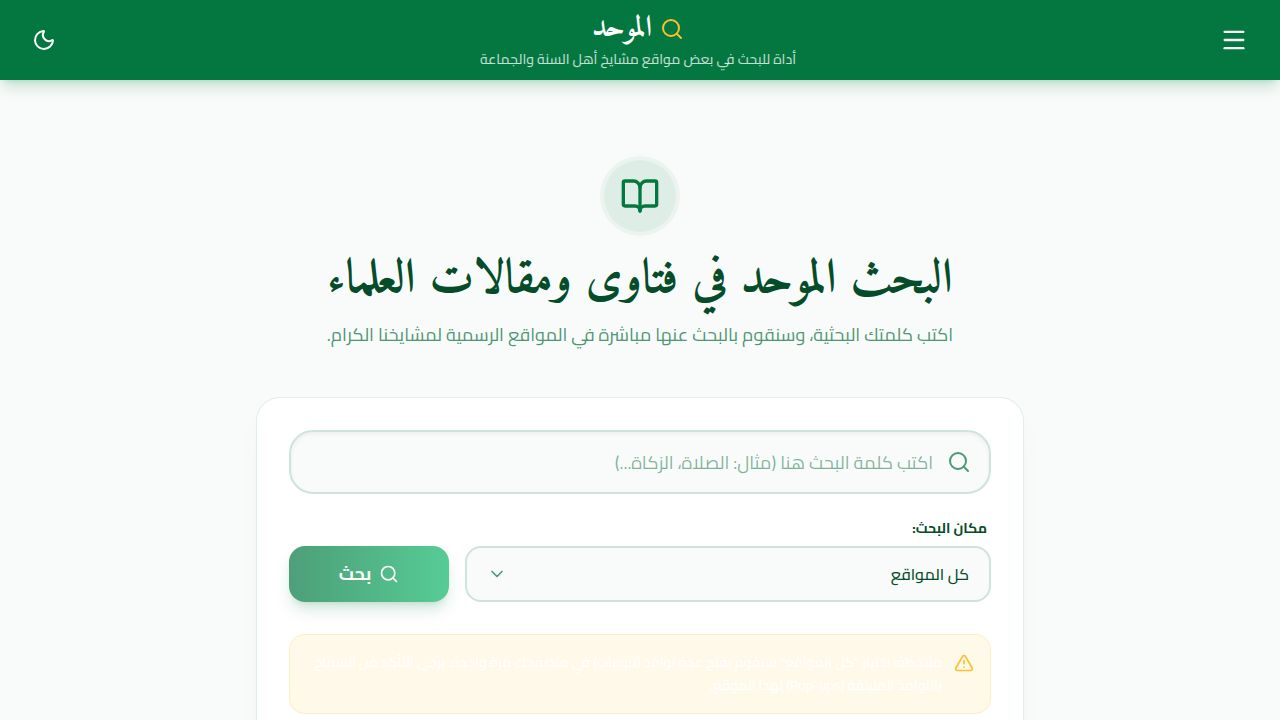
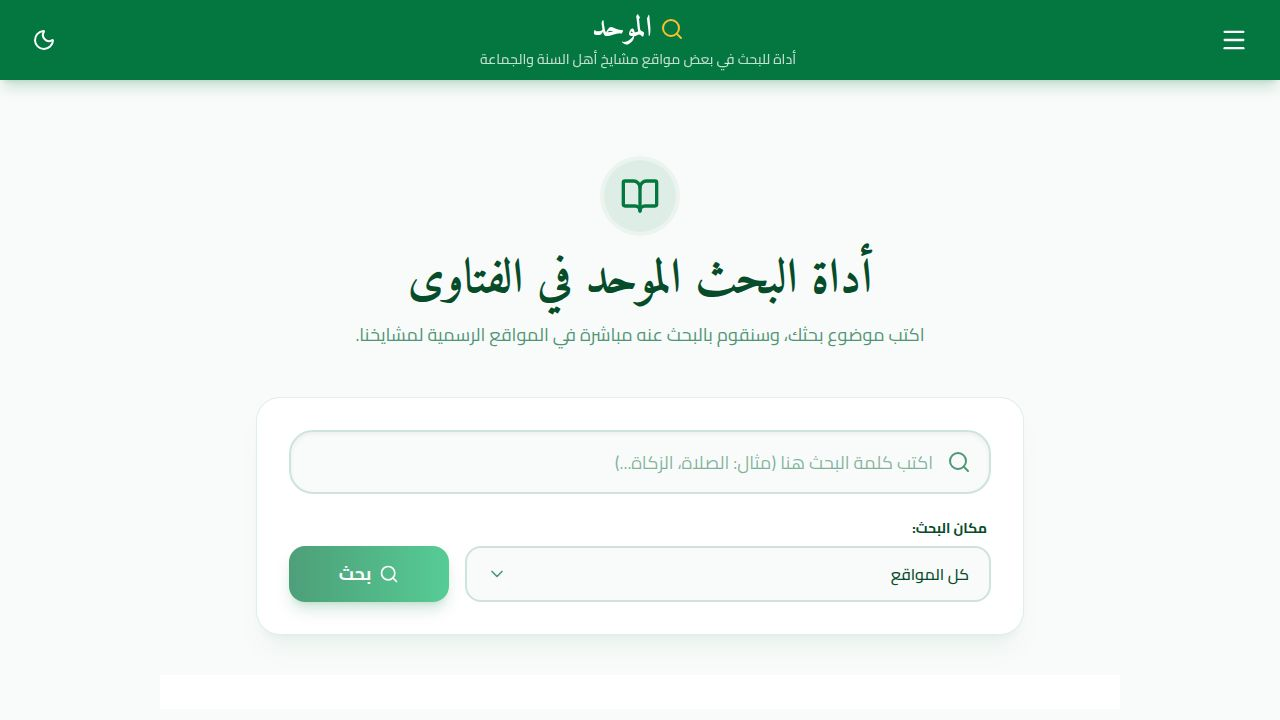
Implement Google search functionality using explicit rendering
Update index.html to configure Google CSE in explicit mode, modify Home.tsx to explicitly render searchbox and results elements using the Google CSE API after React mounts, and adjust index.css for the hidden searchbox element.

Replit-Commit-Author: Agent
Replit-Commit-Session-Id: 765bad33-1471-431f-a7c4-18b303a3d063
Replit-Commit-Checkpoint-Type: full_checkpoint
Replit-Commit-Event-Id: f0e6da24-7117-44e7-8c3e-510ffa481763
Replit-Commit-Screenshot-Url: https://storage.googleapis.com/screenshot-production-us-central1/f8a4007b-8852-4f8e-998f-2a66a300f633/765bad33-1471-431f-a7c4-18b303a3d063/X2VBrAP
Replit-Helium-Checkpoint-Created: true

diff --git a/artifacts/almowahid/src/pages/Home.tsx b/artifacts/almowahid/src/pages/Home.tsx
@@ -6,12 +6,15 @@ import { cn } from "@/lib/utils";
 
 declare global {
   interface Window {
+    __gcse?: object;
+    __cseReady?: boolean;
+    __cseOnReady?: (() => void) | null;
     google?: {
       search?: {
         cse?: {
           element?: {
-            getElement: (gname: string) => { execute: (query: string) => void } | null | undefined;
-            getAllElements: () => Record<string, { execute: (query: string) => void }>;
+            render: (config: { div: string; tag: string; gname?: string }) => void;
+            getElement: (gname: string) => { execute: (q: string) => void } | null | undefined;
           };
         };
       };
@@ -27,45 +30,50 @@ export default function Home() {
   const [isDropdownOpen, setIsDropdownOpen] = useState(false);
   const [isSearching, setIsSearching] = useState(false);
   const [hasSearched, setHasSearched] = useState(false);
-
   const dropdownRef = useRef<HTMLDivElement>(null);
+  const cseInitialised = useRef(false);
+
   const selectedSite = SITES.find((s) => s.id === selectedSiteId) || SITES[0];
 
+  /* ── Click-outside for dropdown ── */
   useEffect(() => {
-    function handleClickOutside(e: MouseEvent) {
-      if (dropdownRef.current && !dropdownRef.current.contains(e.target as Node)) {
+    function handler(e: MouseEvent) {
+      if (dropdownRef.current && !dropdownRef.current.contains(e.target as Node))
         setIsDropdownOpen(false);
-      }
     }
-    document.addEventListener("mousedown", handleClickOutside);
-    return () => document.removeEventListener("mousedown", handleClickOutside);
+    document.addEventListener("mousedown", handler);
+    return () => document.removeEventListener("mousedown", handler);
   }, []);
 
-  const executeSearch = (finalQuery: string, attempts = 0) => {
-    if (attempts > 120) { setIsSearching(false); return; }
+  /* ── Explicitly render Google CSE elements after React mounts ── */
+  useEffect(() => {
+    const renderCse = () => {
+      if (cseInitialised.current) return;
+      const cse = window.google?.search?.cse?.element;
+      if (!cse) return;
 
+      try {
+        cse.render({ div: "cse-searchbox-hidden", tag: "searchbox-only", gname: GNAME });
+        cse.render({ div: "cse-results",          tag: "searchresults-only", gname: GNAME });
+        cseInitialised.current = true;
+      } catch (_) { /* already rendered or not ready */ }
+    };
+
+    if (window.__cseReady) {
+      renderCse();
+    } else {
+      window.__cseOnReady = renderCse;
+    }
+  }, []);
+
+  /* ── Execute search via the searchbox element ── */
+  const runSearch = (finalQuery: string, attempts = 0) => {
+    if (attempts > 80) { setIsSearching(false); return; }
     try {
-      const cseEl = window.google?.search?.cse?.element;
-      if (cseEl) {
-        // Try by explicit gname first
-        const el = cseEl.getElement(GNAME);
-        if (el) {
-          el.execute(finalQuery);
-          setIsSearching(false);
-          return;
-        }
-        // Fallback: use the first available element
-        const all = cseEl.getAllElements?.();
-        const keys = all ? Object.keys(all) : [];
-        if (keys.length > 0) {
-          all[keys[0]].execute(finalQuery);
-          setIsSearching(false);
-          return;
-        }
-      }
-    } catch (_) { /* CSE not ready */ }
-
-    setTimeout(() => executeSearch(finalQuery, attempts + 1), 150);
+      const el = window.google?.search?.cse?.element?.getElement(GNAME);
+      if (el) { el.execute(finalQuery); setIsSearching(false); return; }
+    } catch (_) { /* not ready */ }
+    setTimeout(() => runSearch(finalQuery, attempts + 1), 200);
   };
 
   const handleSearch = (e: React.FormEvent) => {
@@ -84,23 +92,17 @@ export default function Home() {
         finalQuery = `site:${domain} ${query.trim()}`;
       }
     }
-
-    executeSearch(finalQuery);
+    runSearch(finalQuery);
   };
 
   return (
     <div className="flex-1 w-full max-w-5xl mx-auto px-4 sm:px-6 lg:px-8 py-12 md:py-20 flex flex-col items-center">
 
-      {/* ── Hidden Google searchbox — positioned off-screen, NOT display:none ── */}
       {/*
-        gcse-searchbox-only + gcse-searchresults-only sharing data-gname="almowahid"
-        is the officially documented Google CSE split-widget pattern.
-        The hidden searchbox must be rendered (not display:none) so Google CSE can
-        fully initialise it; we move it off-screen via CSS (#hidden-gcse-searchbox).
+        Hidden searchbox — rendered off-screen (not display:none) so Google CSE
+        can fully initialise it. Linked to results via GNAME.
       */}
-      <div id="hidden-gcse-searchbox">
-        <div className="gcse-searchbox-only" data-gname={GNAME} />
-      </div>
+      <div id="cse-searchbox-hidden" aria-hidden="true" />
 
       {/* ── Hero ── */}
       <motion.div
@@ -146,6 +148,7 @@ export default function Home() {
           </div>
 
           <div className="flex flex-col sm:flex-row gap-4">
+
             {/* Site dropdown */}
             <div className="relative flex-1" ref={dropdownRef}>
               <label className="block text-sm font-bold text-foreground mb-2 ms-1">
@@ -210,7 +213,7 @@ export default function Home() {
 
       {/* ── Results Section ── */}
       <div className="w-full mt-10">
-        {hasSearched && (
+        {hasSearched && !isSearching && (
           <motion.div
             initial={{ opacity: 0, y: 10 }}
             animate={{ opacity: 1, y: 0 }}
@@ -228,8 +231,8 @@ export default function Home() {
           </div>
         )}
 
-        {/* Results-only widget — always in DOM, linked to hidden searchbox via gname */}
-        <div className="gcse-searchresults-only w-full" data-gname={GNAME} />
+        {/* Google CSE results-only widget — always in DOM, linked to hidden searchbox via GNAME */}
+        <div id="cse-results" className="w-full" />
       </div>
     </div>
   );

diff --git a/artifacts/almowahid/index.html b/artifacts/almowahid/index.html
@@ -7,11 +7,23 @@
     <link rel="preconnect" href="https://fonts.googleapis.com">
     <link rel="preconnect" href="https://fonts.gstatic.com" crossorigin>
     <link href="https://fonts.googleapis.com/css2?family=Inter:wght@400;500;600;700&display=swap" rel="stylesheet">
+    <!-- Google CSE: explicit mode so React controls when elements are rendered -->
+    <script>
+      window.__gcse = {
+        parsetags: 'explicit',
+        initializationCallback: function () {
+          window.__cseReady = true;
+          if (typeof window.__cseOnReady === 'function') {
+            window.__cseOnReady();
+            window.__cseOnReady = null;
+          }
+        }
+      };
+    </script>
+    <script async src="https://cse.google.com/cse.js?cx=41888e1cfaa844df8"></script>
   </head>
   <body>
     <div id="root"></div>
     <script type="module" src="/src/main.tsx"></script>
-    <!-- Google Custom Search Engine - auto-parse mode -->
-    <script async src="https://cse.google.com/cse.js?cx=41888e1cfaa844df8"></script>
   </body>
 </html>

diff --git a/artifacts/almowahid/src/index.css b/artifacts/almowahid/src/index.css
@@ -126,17 +126,18 @@
    ========================================= */
 
 /*
-  ── Hidden Google searchbox — rendered off-screen so CSE can initialise it,
-     but invisible to the user. We use our own custom search form instead.
+  ── Hidden Google searchbox — rendered off-screen so CSE can initialise it
+     fully, but invisible to the user. We use our own custom search form.
 */
-#hidden-gcse-searchbox {
+#cse-searchbox-hidden {
   position: absolute !important;
   left: -9999px !important;
   top: -9999px !important;
-  width: 1px !important;
-  height: 1px !important;
+  width: 300px !important;
+  height: 60px !important;
   overflow: hidden !important;
   pointer-events: none !important;
+  visibility: hidden !important;
 }
 
 /* Results wrapper */
